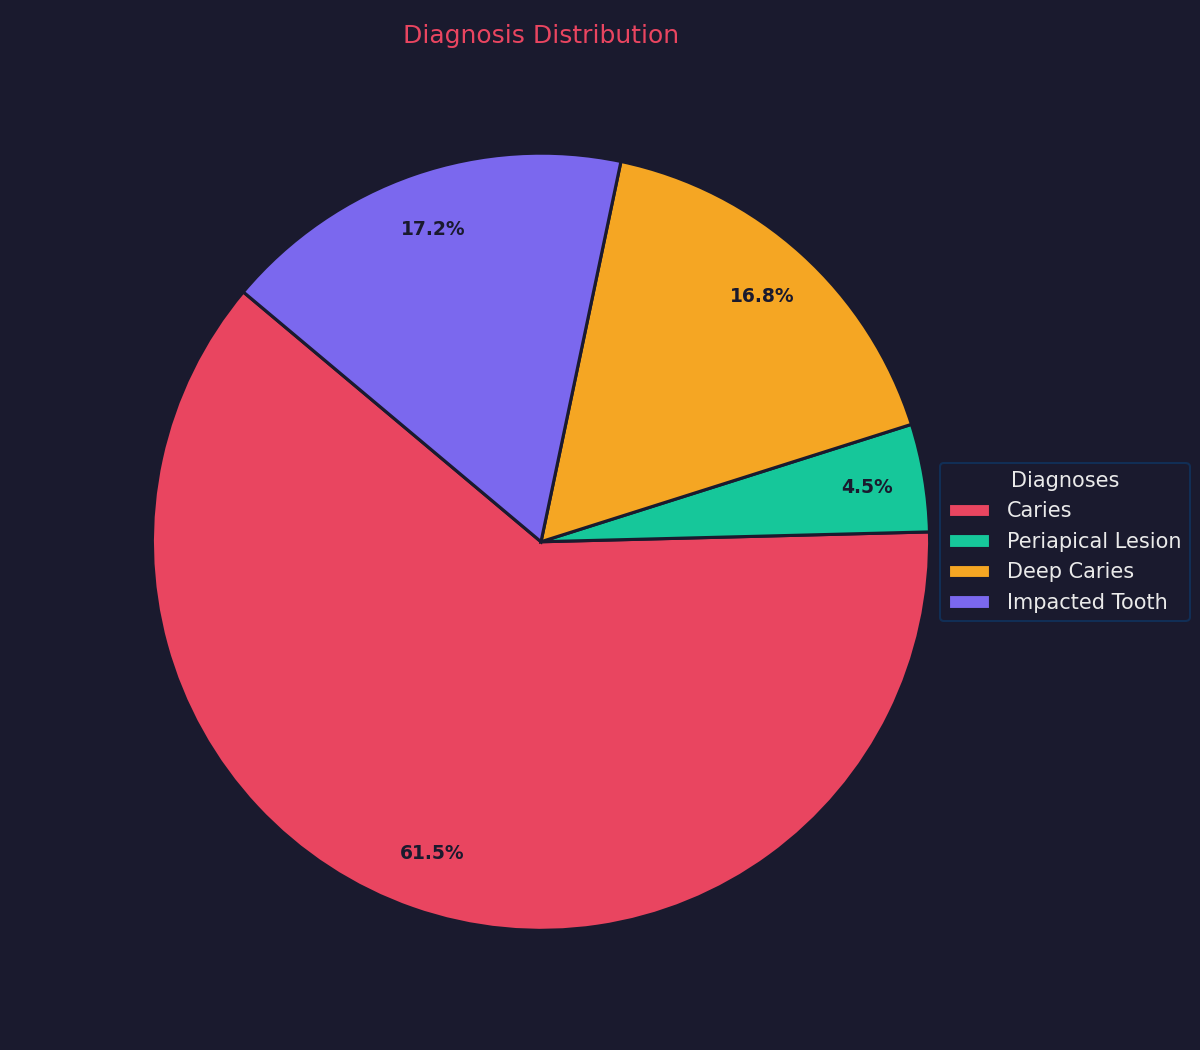
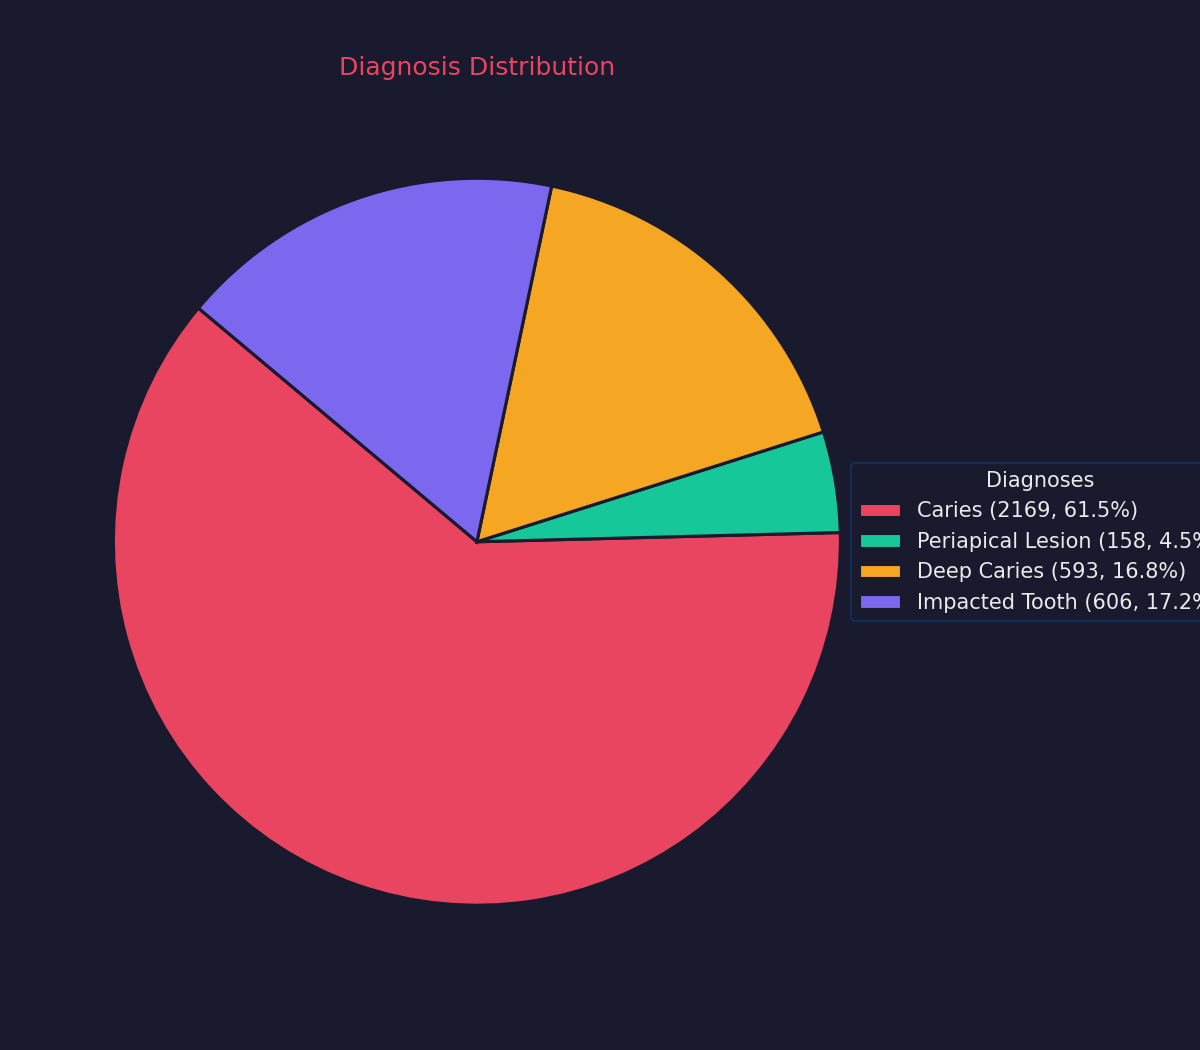
feat: add dynamic quantization detection to vLLM launch for full unquantized model support

diff --git a/scripts/analyze_traces.py b/scripts/analyze_traces.py
@@ -348,16 +348,19 @@ def make_charts(per_trace, tool_call_counts, diag_counter, output_dir: str):
     # 2. Diagnosis pie chart
     labels = list(diag_counter.keys())
     sizes  = list(diag_counter.values())
+    total_sizes = sum(sizes) if sizes else 1
+    
+    # Format labels with percentages for the legend instead of putting them in the slices
+    legend_labels = [f"{lbl} ({sizes[i]}, {sizes[i]/total_sizes*100:.1f}%)" for i, lbl in enumerate(labels)]
+    
     palette = ["#e94560", "#16c79a", "#f5a623", "#7b68ee", "#0f3460", "#eaeaea"][:max(len(labels), 6)]
     fig, ax = plt.subplots(figsize=(8, 7), subplot_kw=dict(aspect="equal"))
-    wedges, texts, autotexts = ax.pie(
-        sizes, labels=None, autopct="%1.1f%%", pctdistance=0.85,
+    wedges, texts = ax.pie(
+        sizes, labels=None, 
         colors=palette, startangle=140,
         wedgeprops=dict(edgecolor="#1a1a2e", linewidth=1.5)
     )
-    for at in autotexts:
-        at.set_color("#1a1a2e"); at.set_fontsize(9); at.set_weight("bold")
-    ax.legend(wedges, labels, title="Diagnoses", loc="center left", bbox_to_anchor=(0.9, 0.5), facecolor="#1a1a2e", edgecolor="#0f3460", labelcolor="#eaeaea")
+    ax.legend(wedges, legend_labels, title="Diagnoses", loc="center left", bbox_to_anchor=(0.9, 0.5), facecolor="#1a1a2e", edgecolor="#0f3460", labelcolor="#eaeaea")
     ax.set_title("Diagnosis Distribution")
     plt.tight_layout()
     fig.savefig(os.path.join(output_dir, "diagnosis_dist.png"), dpi=150)
